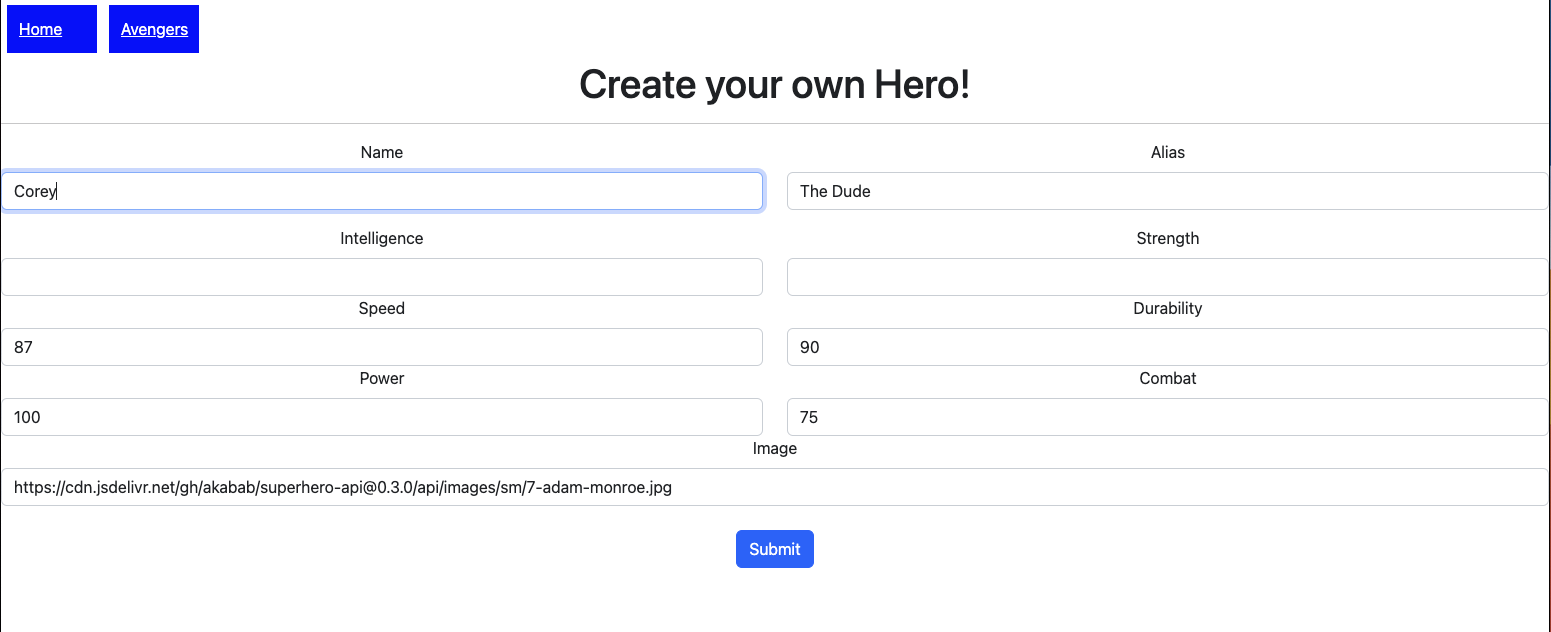
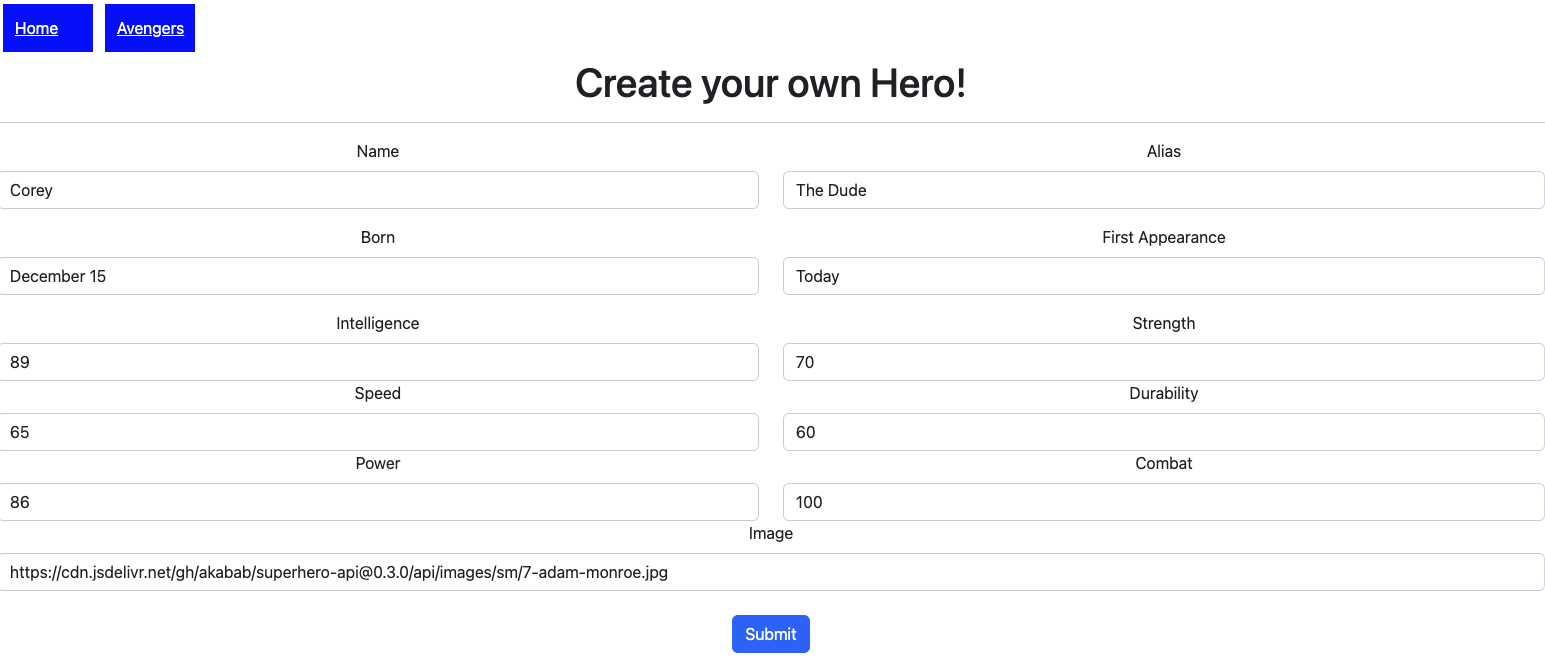
update README redo Hero Form png

Changed region(s): [[0.0, 0.0, 1.0, 1.0], [0.0, 0.8418, 0.435, 0.8718], [0.0, 0.0, 0.1243, 0.0902]]

diff --git a/src/HeroForm.js b/src/HeroForm.js
@@ -65,7 +65,7 @@ const HeroForm = ({ onAddHero })=>{
                     </Form.Group>
                 </Row>
 
-                <Row className="mb-3">
+                <Row>
                     <Form.Group as={Col} controlId="born">
                         <Form.Label>Born</Form.Label>
                             <Form.Control
@@ -74,8 +74,9 @@ const HeroForm = ({ onAddHero })=>{
                                 onChange={handleInputChange}
                                 />
                     </Form.Group>
+                
                     <Form.Group as={Col} controlId="appearance">
-                        <Form.Label>First Appearance</Form.Label>
+                        <Form.Label>First Appeared</Form.Label>
                             <Form.Control
                                 type="text"
                                 name="appearance"
@@ -83,6 +84,8 @@ const HeroForm = ({ onAddHero })=>{
                                 />
                     </Form.Group>
                 </Row>
+
+                
                 
                 <Row>
                     <Form.Group as={Col} controlId="intelligence">

diff --git a/README.md b/README.md
@@ -18,16 +18,17 @@ On page load, the user will be directed to the Home page of the application wher
 
 ![Home Screen](/Images/Home_Screen.png)
 
-When the user clicks on the Avengers navlink, it will take them to a separte page where it will list out five of the orginal Avengers along with some details for each. The user is able to click the "add your own hero" button to have them fill out a form to add their own hero with corresponsding attributes.
+When the user clicks on the Avengers navlink, it will take them to a separte page where it will list five of the orginal Avengers along with some details for each. The user is able to click the "add your own hero" button to fill out a form and add their own avenger with corresponsding attributes.
 
 ![Character List](/Images/Character_List.png)
 
 ![Hero Form](/Images/Hero_Form.png)
 
+
 Once the form is submitted, the user will be redirected to the Avengeres list with their newly created hero added at the end. 
 
 
-![Hero Subs](/Images/Form%20Subs.png)
+
 
 
 
